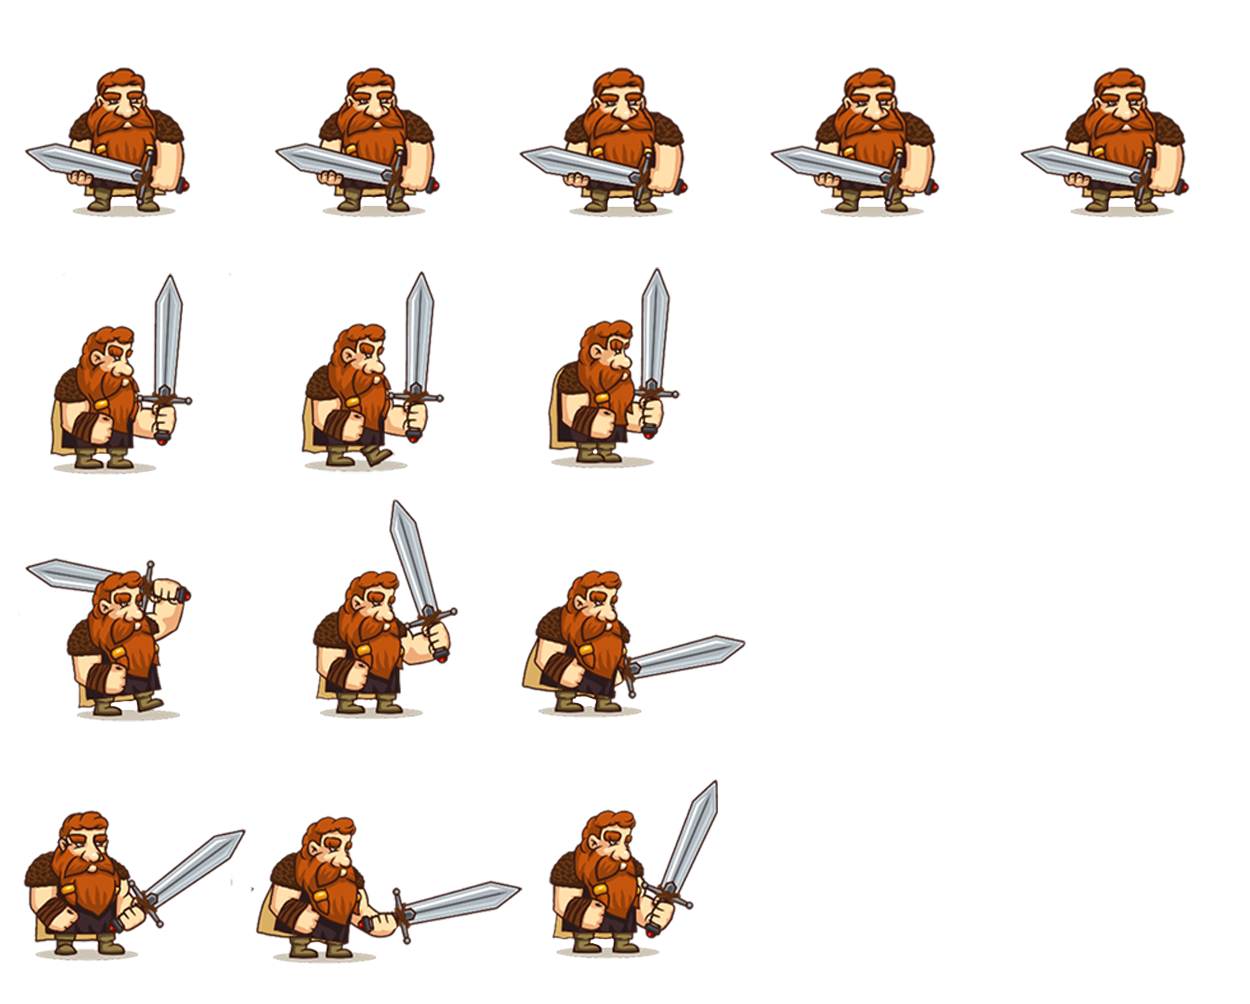
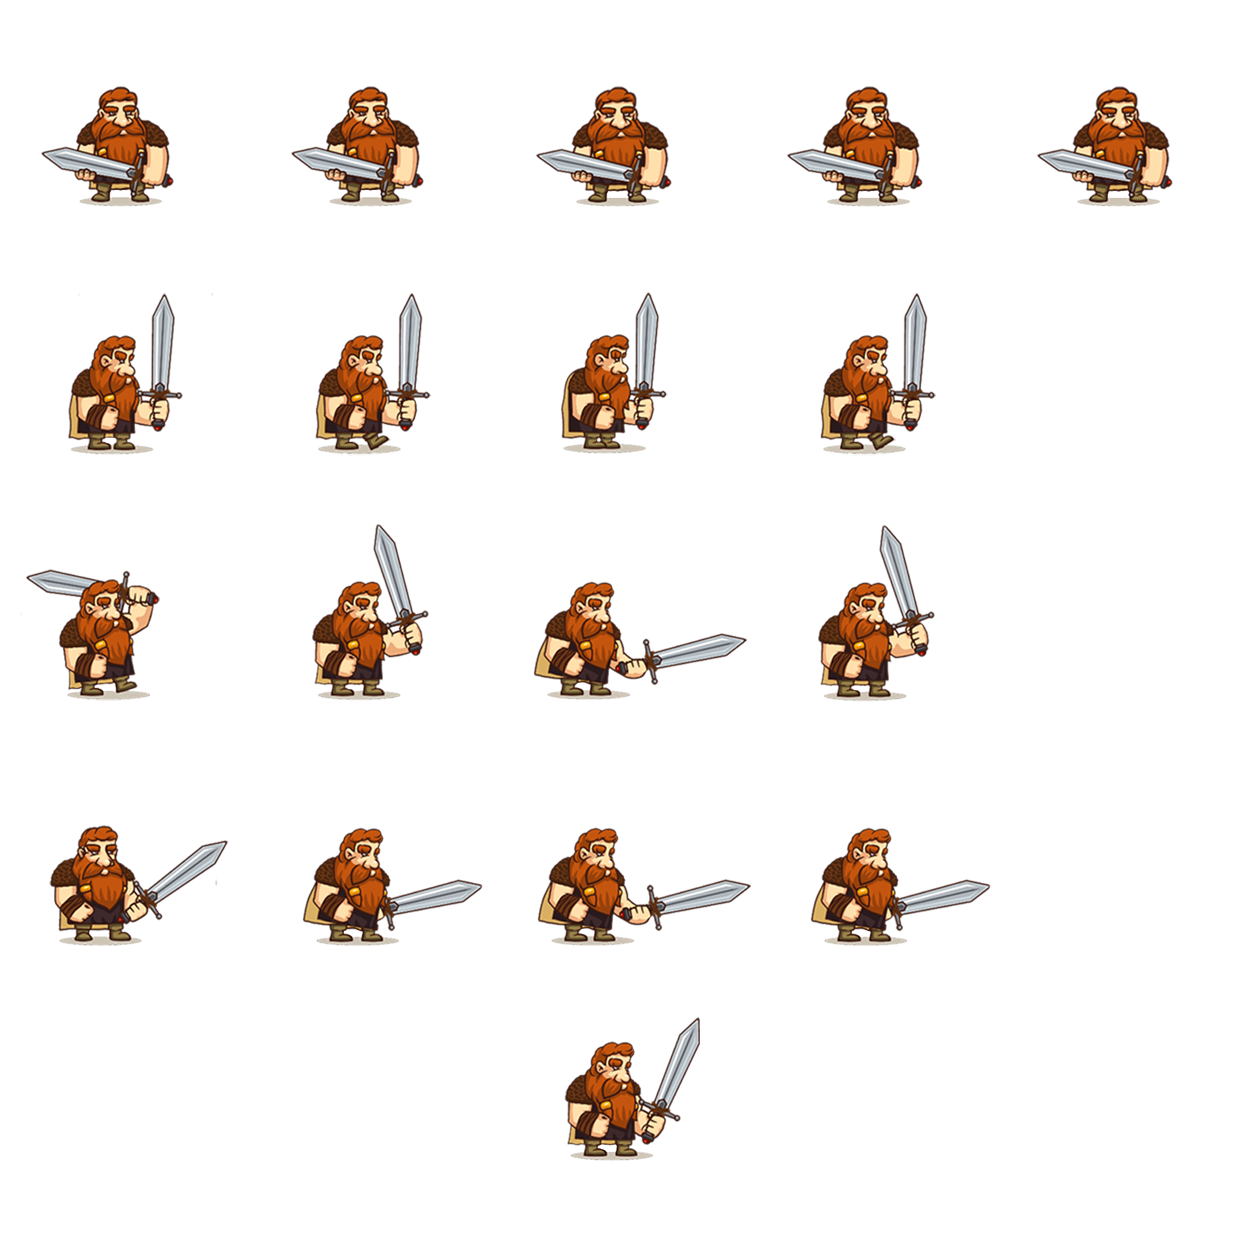
+ ATTACK1

diff --git a/src/entities/Player.java b/src/entities/Player.java
@@ -23,7 +23,7 @@ public class Player extends Entity{
 	private int aniTick, aniIndex, aniSpeed =30;		//Φτιάχνω 3 μεταβλητές που θα τις χρεησιμοποιήσω στην χρήση animation
 	private int playerAction=STANDING;					//Φτιάχνω playerAction ανάλογα με την "φάση" του χαρακτήρα επιστρέφει Int apo 1-7
 	private boolean left, up, right, down;
-	private boolean moving=false, attacking=false;						//Φτιάχνω μια μεταβλητή που όταν κινήται ο χαρακτήρας ειναι true, οταν ειναι σταθερός, false
+	private boolean moving=false, attacking=false, attacking2=false;						//Φτιάχνω μια μεταβλητή που όταν κινήται ο χαρακτήρας ειναι true, οταν ειναι σταθερός, false
 	private float playerSpeed=2.0f;
 	public Player(float x, float y) {
 		super(x, y);
@@ -39,7 +39,7 @@ public class Player extends Entity{
 	}
 	
 	public void render(Graphics g) {
-		  g.drawImage(animations[playerAction][aniIndex],(int)x,(int)y,150,150, null);				//Εισάγω την εικόνα που θέλω στις συντεταγμενες xDelta και yDelta οι οποίες δυνονται απο το πληκτρολόγιο / Mouse μεσω των μεθόδων mouseMoved(e)& keyPressed(e) οποτε το αντικειμενο κινείται  
+		  g.drawImage(animations[playerAction][aniIndex],(int)x,(int)y,200,200, null);				//Εισάγω την εικόνα που θέλω στις συντεταγμενες xDelta και yDelta οι οποίες δυνονται απο το πληκτρολόγιο / Mouse μεσω των μεθόδων mouseMoved(e)& keyPressed(e) οποτε το αντικειμενο κινείται  
 			//μέθοδος drawImage(int img position x, int img position y,int img width, int img height, img observer);       
 			//μπορείς να ορίσεις και τις διαστάσεις της εικόνας στο 4ο κ 5ο όρισμα
 //repaint();									//Εμφανίζονται οι αλλαγές.(Το βάζω εδω για να μη χρειάζεται να το βάλω σε κάθε μέθοδο χωριστά setRectPos(),changeYDelta(),changeYDelta(int value))
@@ -50,7 +50,7 @@ public class Player extends Entity{
 		InputStream is=getClass().getResourceAsStream("/char.png");
 		try {										//Χρησιμοποιώ μια try catch σε περίπτωση που υπάρχει λάθος στην εισαγωγή εικόνας
 			BufferedImage img=ImageIO.read(is);
-			animations=new BufferedImage[3][5];				//Φτιάχνω ένα πίνακα idleAni 5 θέσεων γιατι η char.png στη 1η τη γραμμή έχει 5 snaps 												
+			animations=new BufferedImage[4][5];				//Φτιάχνω ένα πίνακα idleAni 5 θέσεων γιατι η char.png στη 1η τη γραμμή έχει 5 snaps 												
 			for(int j=0; j < animations.length; j++)
 				for(int i=0; i < animations[j].length; i++)
 					animations[j][i]=img.getSubimage(250*i,250*j,250,250);		//Κοβει απο την εικόνα subImg απο τη θέση 250*i  και την εμφανίζει σε μέγεθος 250*250 pixel 
@@ -75,6 +75,7 @@ public class Player extends Entity{
 			aniIndex++;
 			if(aniIndex >= getSnapsAmount(playerAction)) {
 				attacking=false;
+				attacking2=false;
 				aniIndex=0;
 			}
 		}
@@ -88,10 +89,14 @@ public class Player extends Entity{
 			else
 				playerAction=STANDING;
 				
-			if(attacking)
+			if(attacking) {
 				playerAction=ATTACK1;
 			if(startAni!=playerAction)
 				resetAniTick();
+			} else if(attacking2) {
+				playerAction=ATTACK2;
+			if(startAni!=playerAction)
+				resetAniTick();}
 		}
 		
 		private void resetAniTick() {
@@ -128,6 +133,9 @@ public class Player extends Entity{
 		
 		public void setAttacking(boolean attacking) {
 			this.attacking=attacking;
+		}
+		public void setAttacking2(boolean attacking2) {
+			this.attacking2=attacking2;
 		}
 		public boolean isLeft() {
 			return left;

diff --git a/src/inputs/MouseInputs.java b/src/inputs/MouseInputs.java
@@ -27,9 +27,14 @@ public class MouseInputs implements MouseListener, MouseMotionListener { 		//To 
 
 	@Override
 	public void mouseClicked(MouseEvent e) {									//Ανιχνεύει τo κλικ του Mouse				
-		System.out.println("Mouse clicked");
-		if(e.getButton()==MouseEvent.BUTTON1)
+		if(e.getButton()==MouseEvent.BUTTON1) {
+			System.out.println("Mouse, left button clicked");
 			gamePanel.getGame().getPlayer().setAttacking(true);
+		}
+		if(e.getButton()==MouseEvent.BUTTON3) {
+			System.out.println("Mouse, right button clicked");
+			gamePanel.getGame().getPlayer().setAttacking2(true);
+		}
 	}
 
 	@Override

diff --git a/src/utils/Constants.java b/src/utils/Constants.java
@@ -30,8 +30,9 @@ public class Constants{
 			case RUNNING:
 				return 3;
 			case ATTACK1:
-				return 3;
-			//case ATTACK2:5;
+				return 4;
+			case ATTACK2:
+				return 4;
 			//case JUMPATTACK1:5;
 			//case JUMPATTACK2:5;
 			//case INJURED:5;
